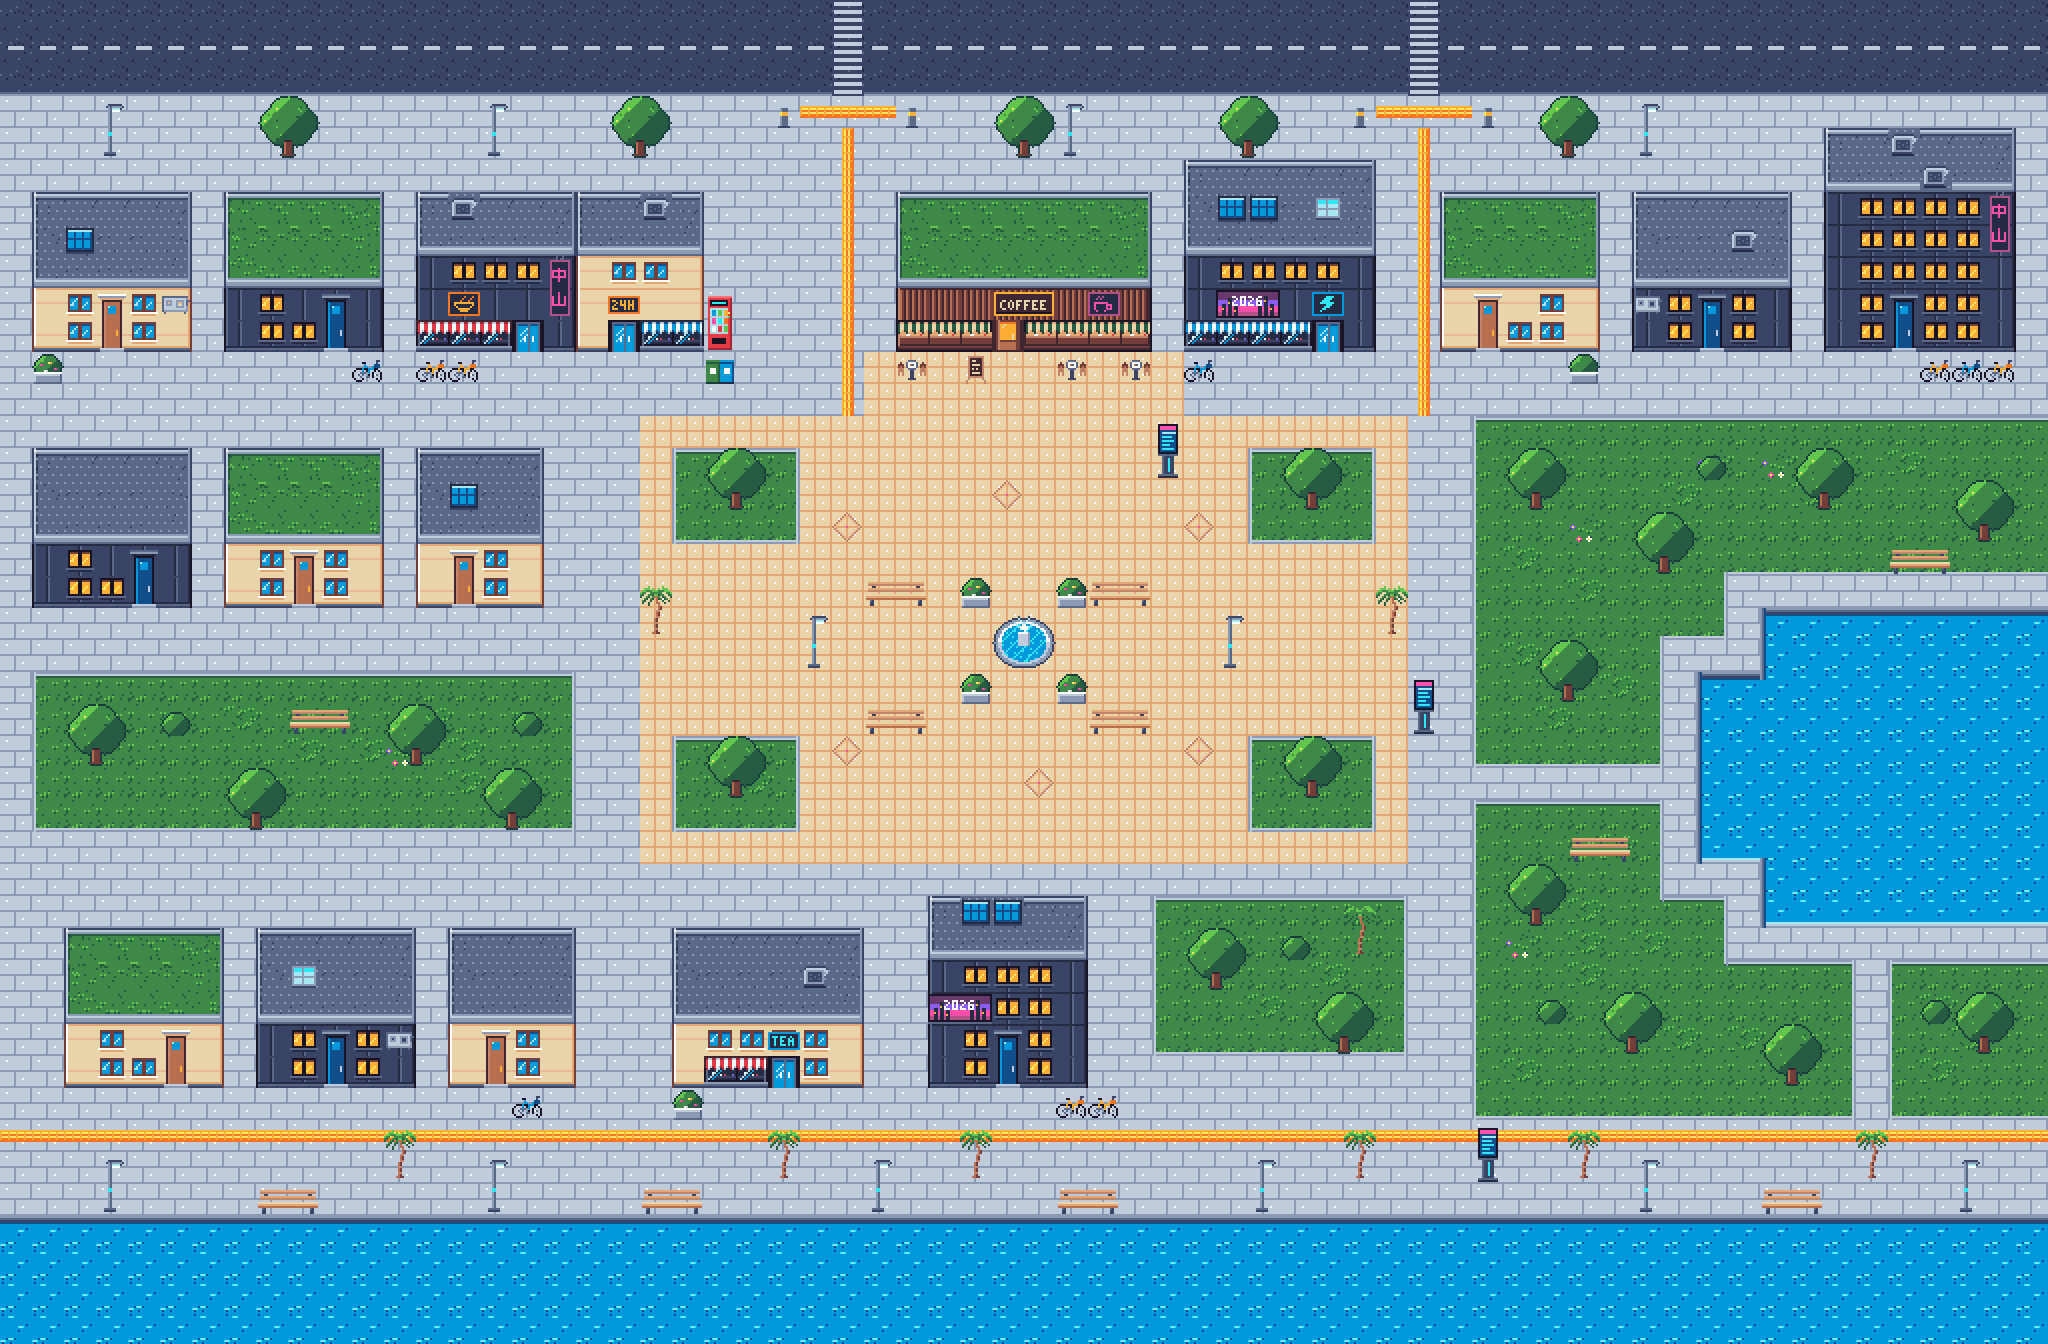
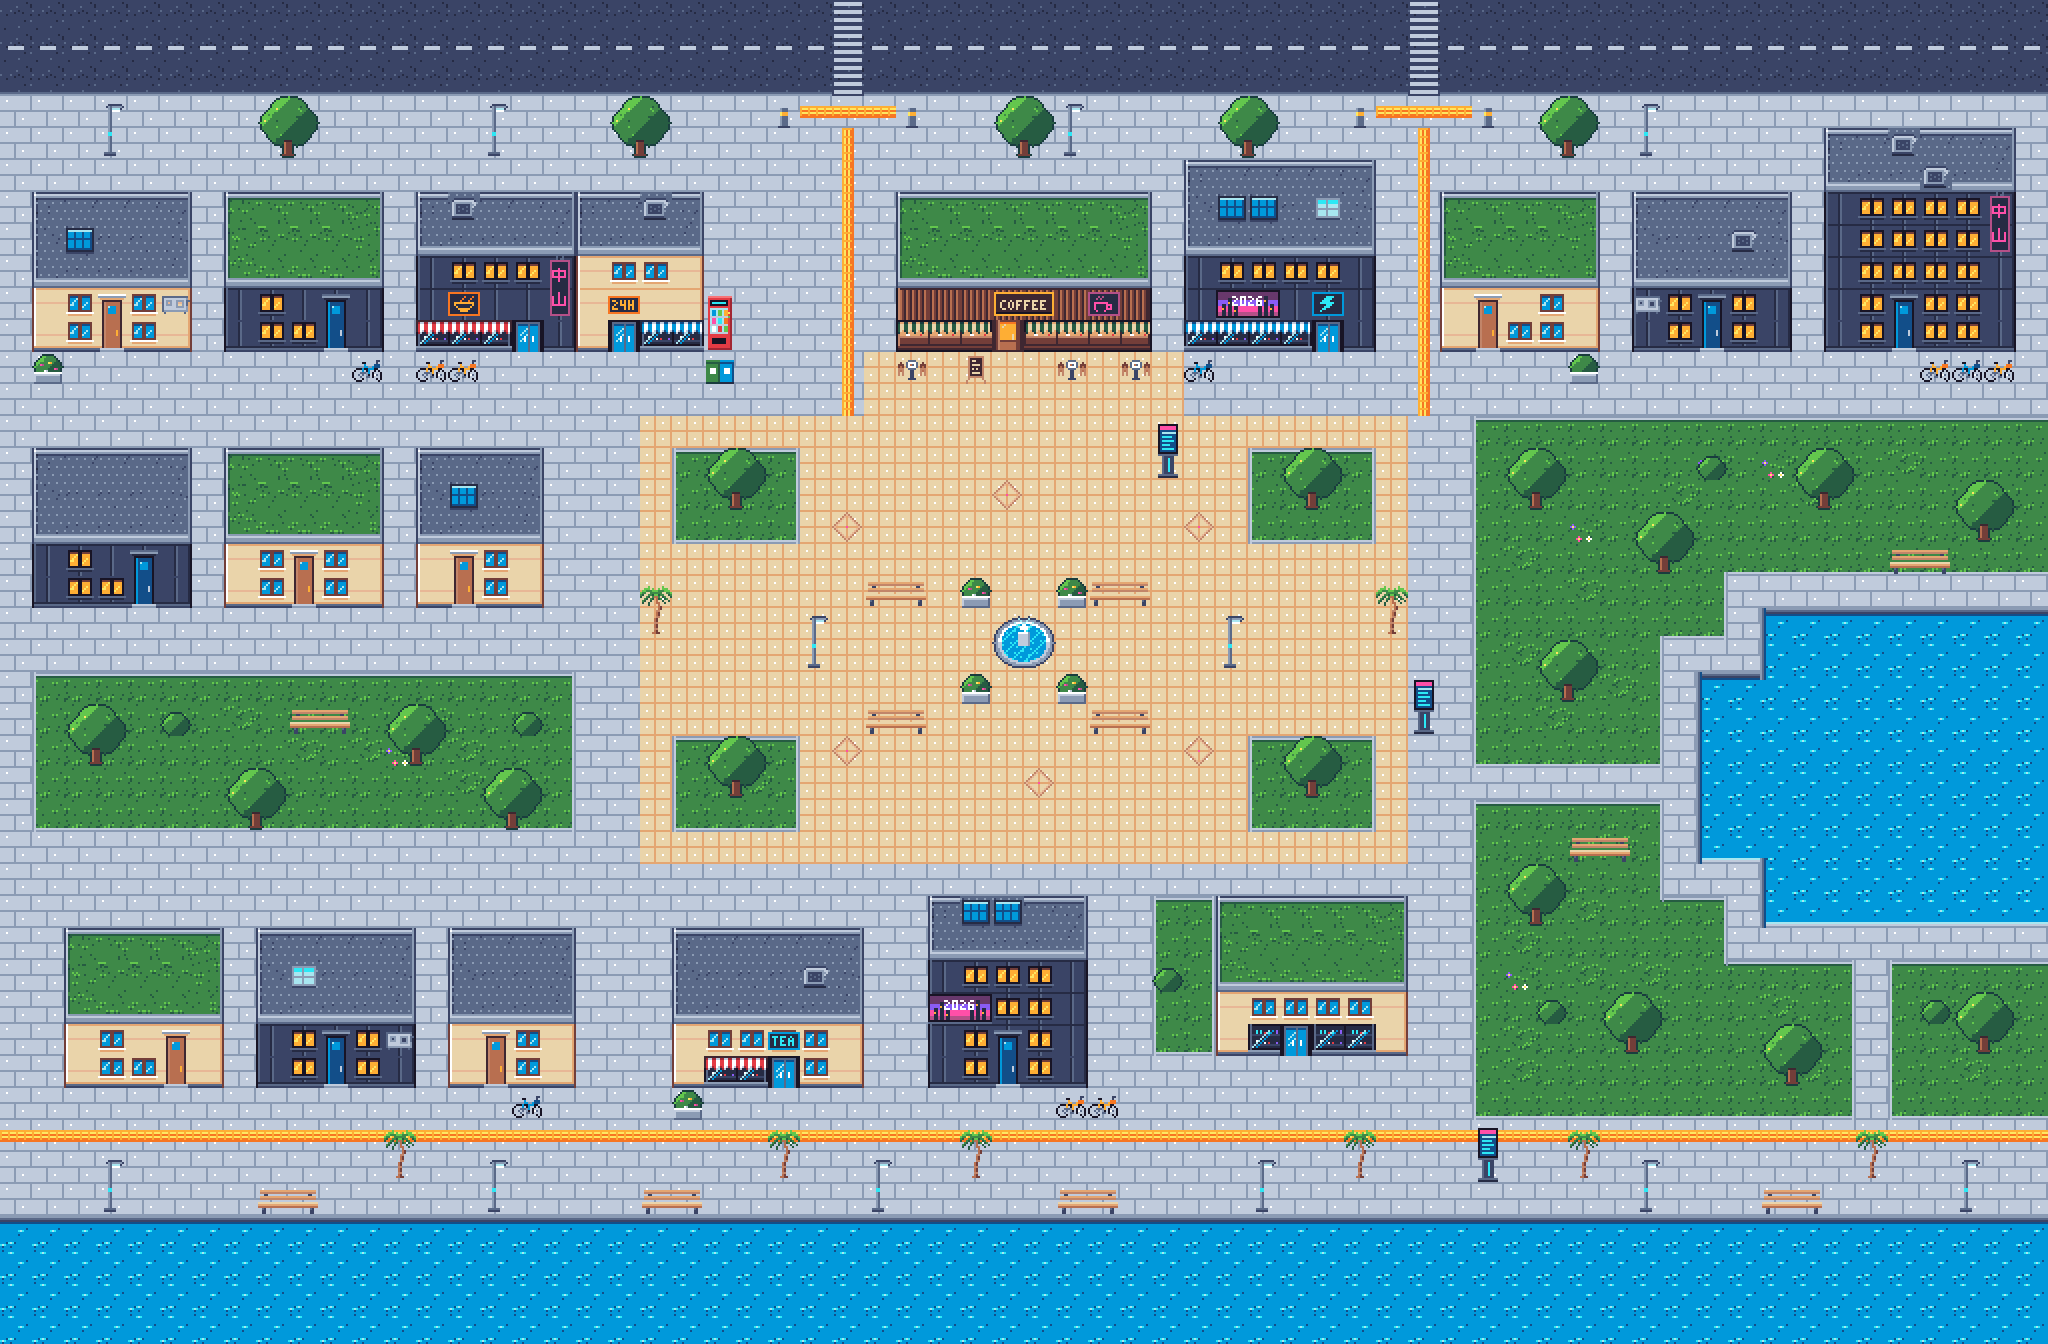
Put the gallery on the village, with a door into its interior
The gallery stands 6 x 5 tiles from (38, 28), on most of the garden between
Garden Flats and the park, keeping every mural wall in view. Its door runs
from the doorstep (40, 33) to the mat inside. The gallery location stays
only on its interior, so Town.doorstep() now records a doorstep on its own,
as in the location-move patch left for #169.

diff --git a/server/simile/world/build_map.py b/server/simile/world/build_map.py
@@ -218,9 +218,15 @@ class Town:
         front: int = 1,
     ) -> None:
         """The location takes in `front` rows outside; the doorstep is its entry."""
+        step = self.doorstep(location_id, area, door)
         grown = area.model_copy(update={"height": area.height + front})
-        self.doorsteps[location_id] = Tile(x=door, y=area.y + area.height)
-        self.place(location_id, name, kind, grown, (door, area.y + area.height))
+        self.place(location_id, name, kind, grown, (step.x, step.y))
+
+    def doorstep(self, building_id: str, area: TileArea, door: int) -> Tile:
+        """The tile in front of a building's door, where a door to its interior would go."""
+        step = Tile(x=door, y=area.y + area.height)
+        self.doorsteps[building_id] = step
+        return step
 
     def house(
         self,
@@ -598,11 +604,10 @@ def banyan_row(town: Town) -> None:
     town.put(29, 31, "screen_l", "screen_r")
     town.put(33, 34, "bike_yellow", "bike_yellow")
 
-    town.fill("G", 36, 28, 8, 5)
-    for x, y in ((37, 30), (41, 32)):
-        town.tree(x, y)
-    town.tall(42, 29, "palm")
-    town.put(40, 29, "bush")
+    town.fill("G", 36, 28, 2, 5)
+    town.put(36, 30, "bush")
+    gallery = town.building(38, 28, "cream", (".wwww.", ".sDss."), roof="roof_green")
+    town.doorstep("gallery", gallery, 40)
 
 
 def riverside(town: Town) -> None:

diff --git a/server/tests/art/iso/test_town.py b/server/tests/art/iso/test_town.py
@@ -14,8 +14,8 @@ def town() -> Town:
 
 
 def test_the_village_has_its_buildings_and_props(town: Town) -> None:
-    assert len(town.buildings) == 16
-    assert len(town.props) == 93
+    assert len(town.buildings) == 17
+    assert len(town.props) == 90
     ids = [o.id for o in town.objects]
     assert len(ids) == len(set(ids))
 
@@ -53,7 +53,12 @@ def test_a_building_has_a_facade_row_per_storey(town: Town) -> None:
 
 def test_buildings_with_an_interior_have_an_entrance_at_its_door(town: Town) -> None:
     entrances = {b.id: b.entrances for b in town.buildings if b.entrances}
-    assert entrances == {"building-28-6": (3,), "building-13-6": (3,), "building-37-5": (4,)}
+    assert entrances == {
+        "building-28-6": (3,),
+        "building-13-6": (3,),
+        "building-37-5": (4,),
+        "building-38-28": (2,),
+    }
     for b in town.buildings:
         for col in b.entrances:
             assert (b.x0 + col, b.y1) in town.doorsteps
@@ -61,7 +66,7 @@ def test_buildings_with_an_interior_have_an_entrance_at_its_door(town: Town) -> 
 
 
 def test_only_buildings_with_an_entrance_say_so_in_their_spec(town: Town) -> None:
-    assert sum("entrances" in b.spec() for b in town.buildings) == 3
+    assert sum("entrances" in b.spec() for b in town.buildings) == 4
 
 
 def block(x0: int, y0: int, storeys: int = 3) -> Building:

diff --git a/server/tests/world/test_movement.py b/server/tests/world/test_movement.py
@@ -543,11 +543,23 @@ def test_locations_on_two_maps_are_the_villages() -> None:
     assert village.movement.position("mei").map == VILLAGE_MAP
 
 
-def test_nobody_reaches_a_map_without_a_door() -> None:
+def test_walks_into_the_gallery_through_its_door() -> None:
     village = Village()
     village.movement.place("mei", "square")
 
-    assert village.movement.walk_to("mei", "gallery").outcome is Outcome.UNREACHABLE
+    village.finish(walk := village.movement.walk_to("mei", "gallery"))
+
+    assert walk.outcome is Outcome.ARRIVED
+    assert walk.destination == entry_of(MAPS["gallery"].location("gallery"))
+    assert village.movement.position("mei").map == "gallery"
+
+
+def test_nobody_reaches_a_map_without_a_door() -> None:
+    village = Village({**MAPS, "field": open_field(3)})
+    village.movement.place("mei", "square")
+
+    field = MapTile(map="field", x=1, y=1)
+    assert village.movement.walk_to("mei", field).outcome is Outcome.UNREACHABLE
     with pytest.raises(KeyError):
         village.movement.walk_to("mei", MapTile(map="moon", x=0, y=0))
 

diff --git a/server/tests/world/test_paths.py b/server/tests/world/test_paths.py
@@ -178,12 +178,11 @@ def test_a_door_is_an_edge_between_its_two_tiles() -> None:
 
 
 def test_finds_no_route_to_a_map_without_a_door() -> None:
-    gallery = MAPS["gallery"].location("gallery").entry
-    square = TOWN.location("square").entry
-    start = Spot(VILLAGE_MAP, square.x, square.y)
+    maps = {"street": replace(grid("..."), id="street"), "shop": replace(grid(".."), id="shop")}
+    start = Spot("street", 0, 0)
 
-    assert find_route(MAPS, start, Spot("gallery", gallery.x, gallery.y), DOORS) is None
-    assert find_route(MAPS, start, Spot("moon", 0, 0), DOORS) is None
+    assert find_route(maps, start, Spot("shop", 1, 0), door_ends(maps)) is None
+    assert find_route(maps, start, Spot("moon", 0, 0), door_ends(maps)) is None
 
 
 def test_every_door_end_leads_to_the_other() -> None:

diff --git a/server/tests/world/test_interiors.py b/server/tests/world/test_interiors.py
@@ -55,7 +55,7 @@ def test_every_door_links_walkable_tiles_in_both_directions() -> None:
         for door in town.doors:
             ends.setdefault(door.id, []).append((town.id, door))
 
-    assert set(ends) == MOVING_INSIDE
+    assert set(ends) == set(INTERIORS)
     for door_id, found in ends.items():
         [(first, door), (second, same)] = found
         assert door == same, door_id
@@ -156,7 +156,6 @@ def test_the_gallery_hangs_paintings_on_its_walls() -> None:
         area = painting.area
         assert not any(gallery.walkable(area.x + dx, area.y) for dx in range(area.width))
     assert gallery.location("gallery").kind is LocationKind.GALLERY
-    assert gallery.doors == ()
 
 
 def test_the_maker_space_has_its_machines() -> None:

diff --git a/content/map/README.md b/content/map/README.md
@@ -74,7 +74,7 @@ wall and the iso camera, so the whole mural shows, and no two walls share a buil
 | `corner_shop` | The 24-hour shop next to the noodle bar, facing the crossing | east | 4 | 0.7–2.85 |
 | `daily_grind` | The Daily Grind, above its awnings on the square | south | 3 | 1.05–1.9 |
 | `tower` | The tower at the east end of Lychee Lane, by the park | east | 5 | 0.15–3 |
-| `garden_flats` | The flats on Banyan Row, facing the garden south of the square | east | 4 | 0.15–2.5 |
+| `garden_flats` | The flats on Banyan Row, facing the gallery | east | 4 | 0.15–2.5 |
 | `banyan_row` | 3 Banyan Row, a street up from the river | east | 3 | 0.15–1.85 |
 
 **Scale.** The map is sized for `simile.world.map.WALKING_SPEED`, 1.3 tiles per sim second. The
@@ -124,18 +124,10 @@ residents there. #169 removes the village copies and adds the terrace as `cafe_t
 player can go inside. `tests/world/test_interiors.py` checks that these three are the only ids on
 two maps.
 
-**The gallery isn't on the village yet.** A new building changes the iso scenery, which is rendered
-from the village (`server/simile/art/iso/`), so the building lands in its own task with the
-re-render. Until then `gallery.tmj` has its mat but no door, and nothing can reach it. This spot
-keeps every mural wall in view of the iso camera, keeps the village connected, and leaves its
-farthest places about 55 s apart:
-
-- **Footprint.** 6 × 5 tiles from `(38, 28)`, in place of the garden between Garden Flats and the
-  park: `town.building(38, 28, "cream", (".wwww.", ".sDss."), roof="roof_green")`, or the same with
-  two roof rows and three storeys. One tile further west hides the `garden_flats` mural.
-- **Door.** The shop door at `x = 40`, so the doorstep, the door's outside end, is `(40, 33)`. Its
-  inside end is the mat at `(16, 19)`.
-- **Location.** `gallery` stays on its interior, with its entry at `(16, 12)`.
+**The gallery** is 6 × 5 tiles from `(38, 28)`, on Banyan Row between Garden Flats and the park,
+with a strip of the old garden on its west side. Its `gallery` location is only on its interior,
+with its entry at `(16, 12)`, so the village has its door but no location for it. One tile further
+west would hide the `garden_flats` mural from the iso camera.
 
 ## Doors
 
@@ -154,6 +146,7 @@ where it goes:
 | `coffee_shop` | `(31, 11)` | `(10, 13)` |
 | `noodle_bar` | `(16, 11)` | `(15, 13)` |
 | `maker_space` | `(41, 11)` | `(14, 13)` |
+| `gallery` | `(40, 33)` | `(16, 19)` |
 
 ## Interactables
 
